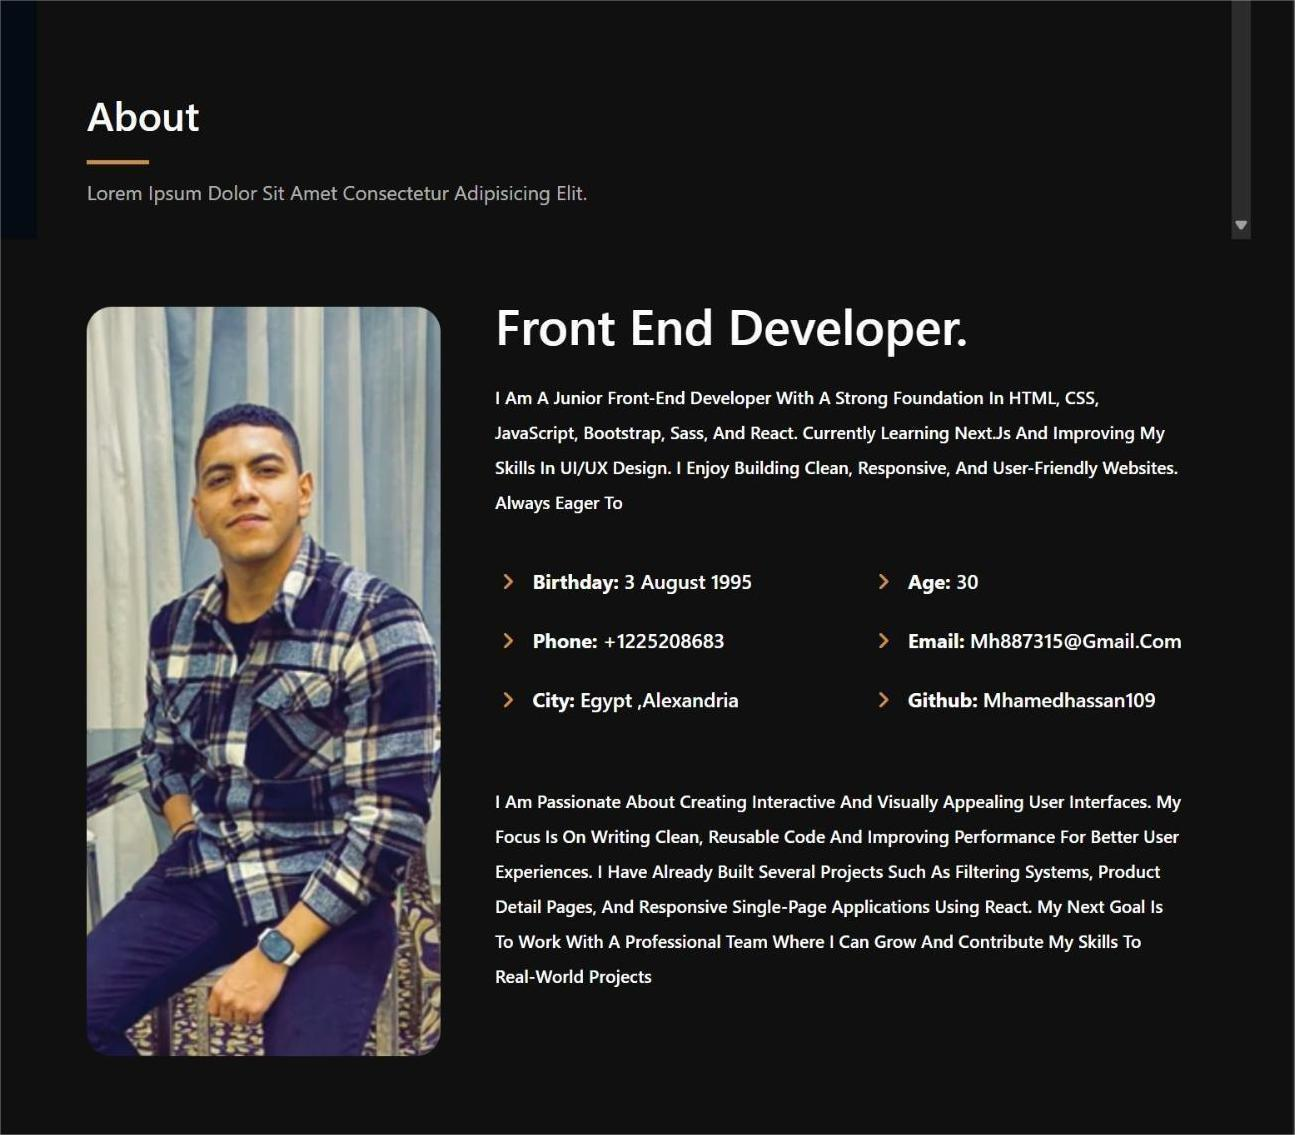
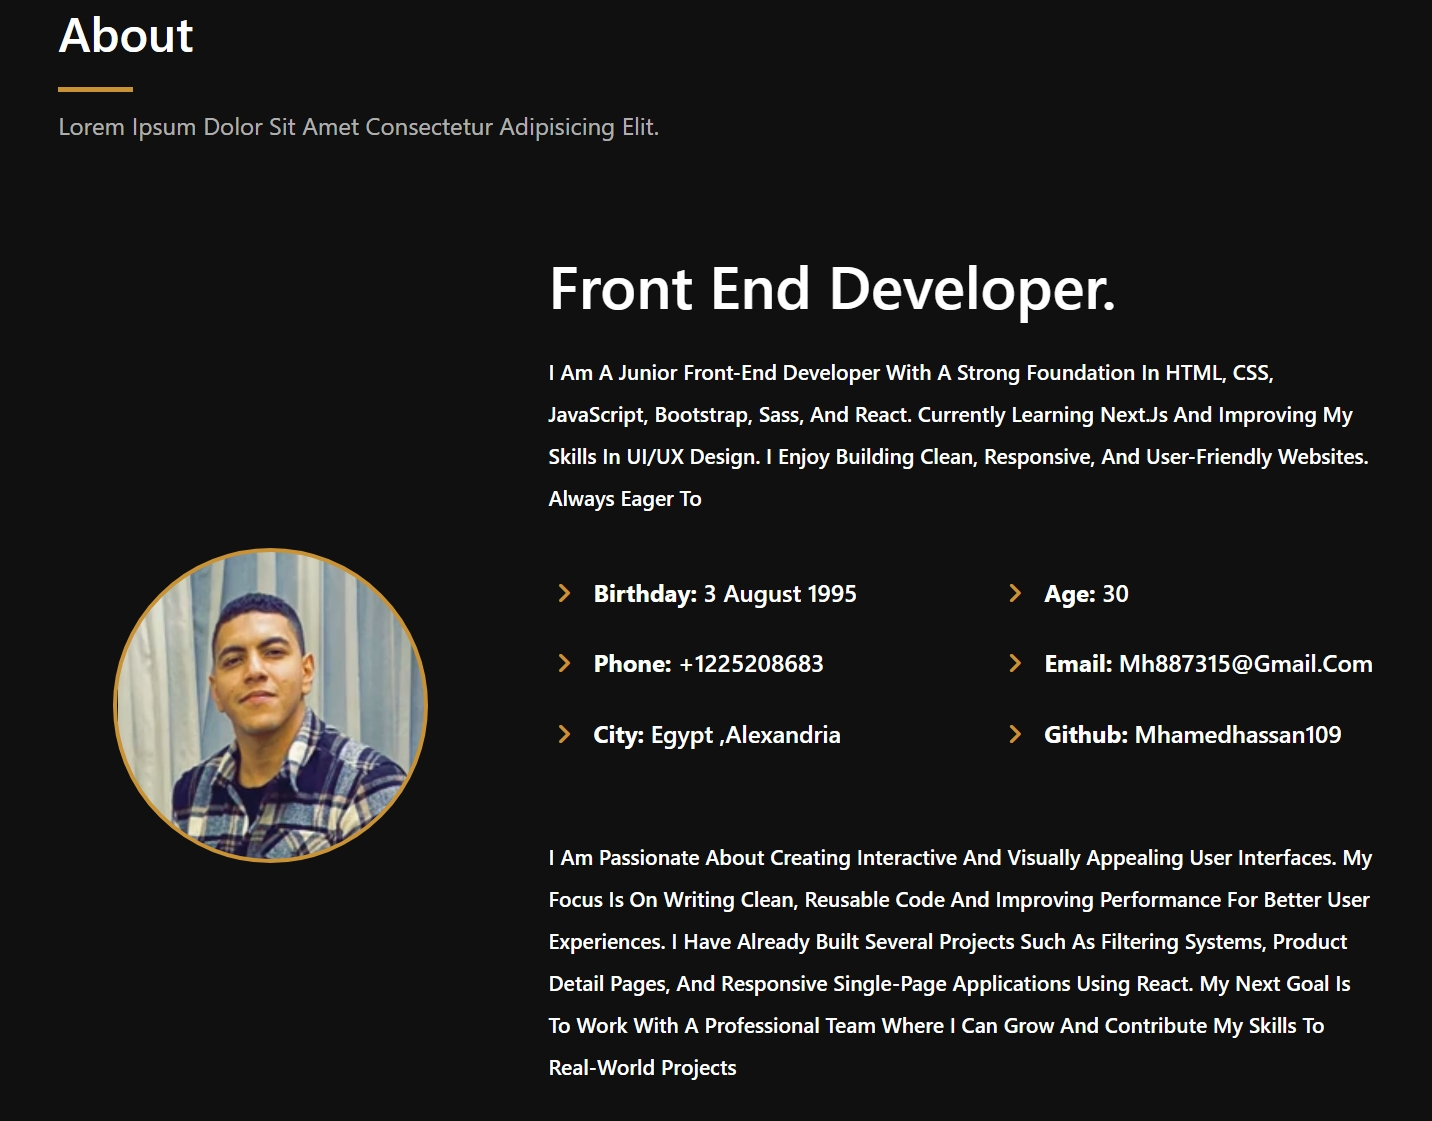
edit about

diff --git a/src/projects.js b/src/projects.js
@@ -5,6 +5,8 @@ import img4 from "./Assets/projectSmall1.jpeg"
 import img5 from "./Assets/smallProject2.png"
 import img6 from "./Assets/to-do-list.png"
 import img7 from "./Assets/person.jpeg"
+import img8 from "./Assets/cafe.jpeg"
+import img9 from "./Assets/smart.jpeg"
  
 
 
@@ -16,4 +18,6 @@ export const projects = [
     {id:Date.now(),name:"prodect deatils app",desc:"A simple React application ",catogry:"Business",img:img5,url:"https://github.com/mhamedhassan109/product-details-app",netlify:"https://product-details-app.netlify.app/"},
     {id:Date.now(),name:"to do list app",desc:"A simple React application ",catogry:"E-commerce",img:img6,url:"https://github.com/mhamedhassan109/to-do-list-reminder",netlify:"https://todo-reminder-mohamed.netlify.app/"},
     {id:Date.now(),name:"Personal Portfolio",desc:"A responsive personal portfolio website built with React and Sass, showcasing my projects, skills, and contact information. ",catogry:"Personal",img:img7,url:"https://github.com/mhamedhassan109/MH-Portfolio.git",netlify:"https://mohassanportfolio.netlify.app/"},
+    {id:Date.now(),name:"cafe app",desc:"A simple next application  ",catogry:"Business",img:img8,url:"https://github.com/mhamedhassan109/Caffe-website.git",netlify:"https://github.com/mhamedhassan109/Caffe-website.git"},
+    {id:Date.now(),name:"smart app",desc:"A simple next application  ",catogry:"Business",img:img9,url:"https://github.com/mhamedhassan109/SmartStore.git",netlify:"https://github.com/mhamedhassan109/SmartStore.git"},
 ]

diff --git a/src/Componens/About/About.scss b/src/Componens/About/About.scss
@@ -5,14 +5,18 @@
     .user{
 
             margin-top: 30px;
-             
+            transform: translateY(180px);
+             border-radius: 50%;
+                width: 210px;
+                height: 210px;
+                margin: 40px auto;
+                border: 3px solid #c89235;
+                background-image: url(../../Assets/Profile.jpg);
+                background-size: cover;
+                background-repeat: no-repeat;
+                background-position: 1px -30px;
 
-        img {
-            width: 600px;
-            height: 600px;
-            border-radius: 20px;
-          
-        }
+      
 
       
     }

diff --git a/src/Componens/About/About.jsx b/src/Componens/About/About.jsx
@@ -13,7 +13,7 @@ function About({AboutRef}) {
            <Col sm="12" lg="4">
           <motion.div 
           initial={{opacity:0,x:-100}}
-          whileInView={{opacity:1,x:0}}
+          whileInView={{opacity:1,x:0}} 
           transition={{duration:2}}
           viewport={{once:true}}
           
@@ -21,7 +21,7 @@ function About({AboutRef}) {
           >
 
           <div className="user">
-            <img src={user} alt='user'/>
+           
           </div>
             </motion.div>
           </Col>
